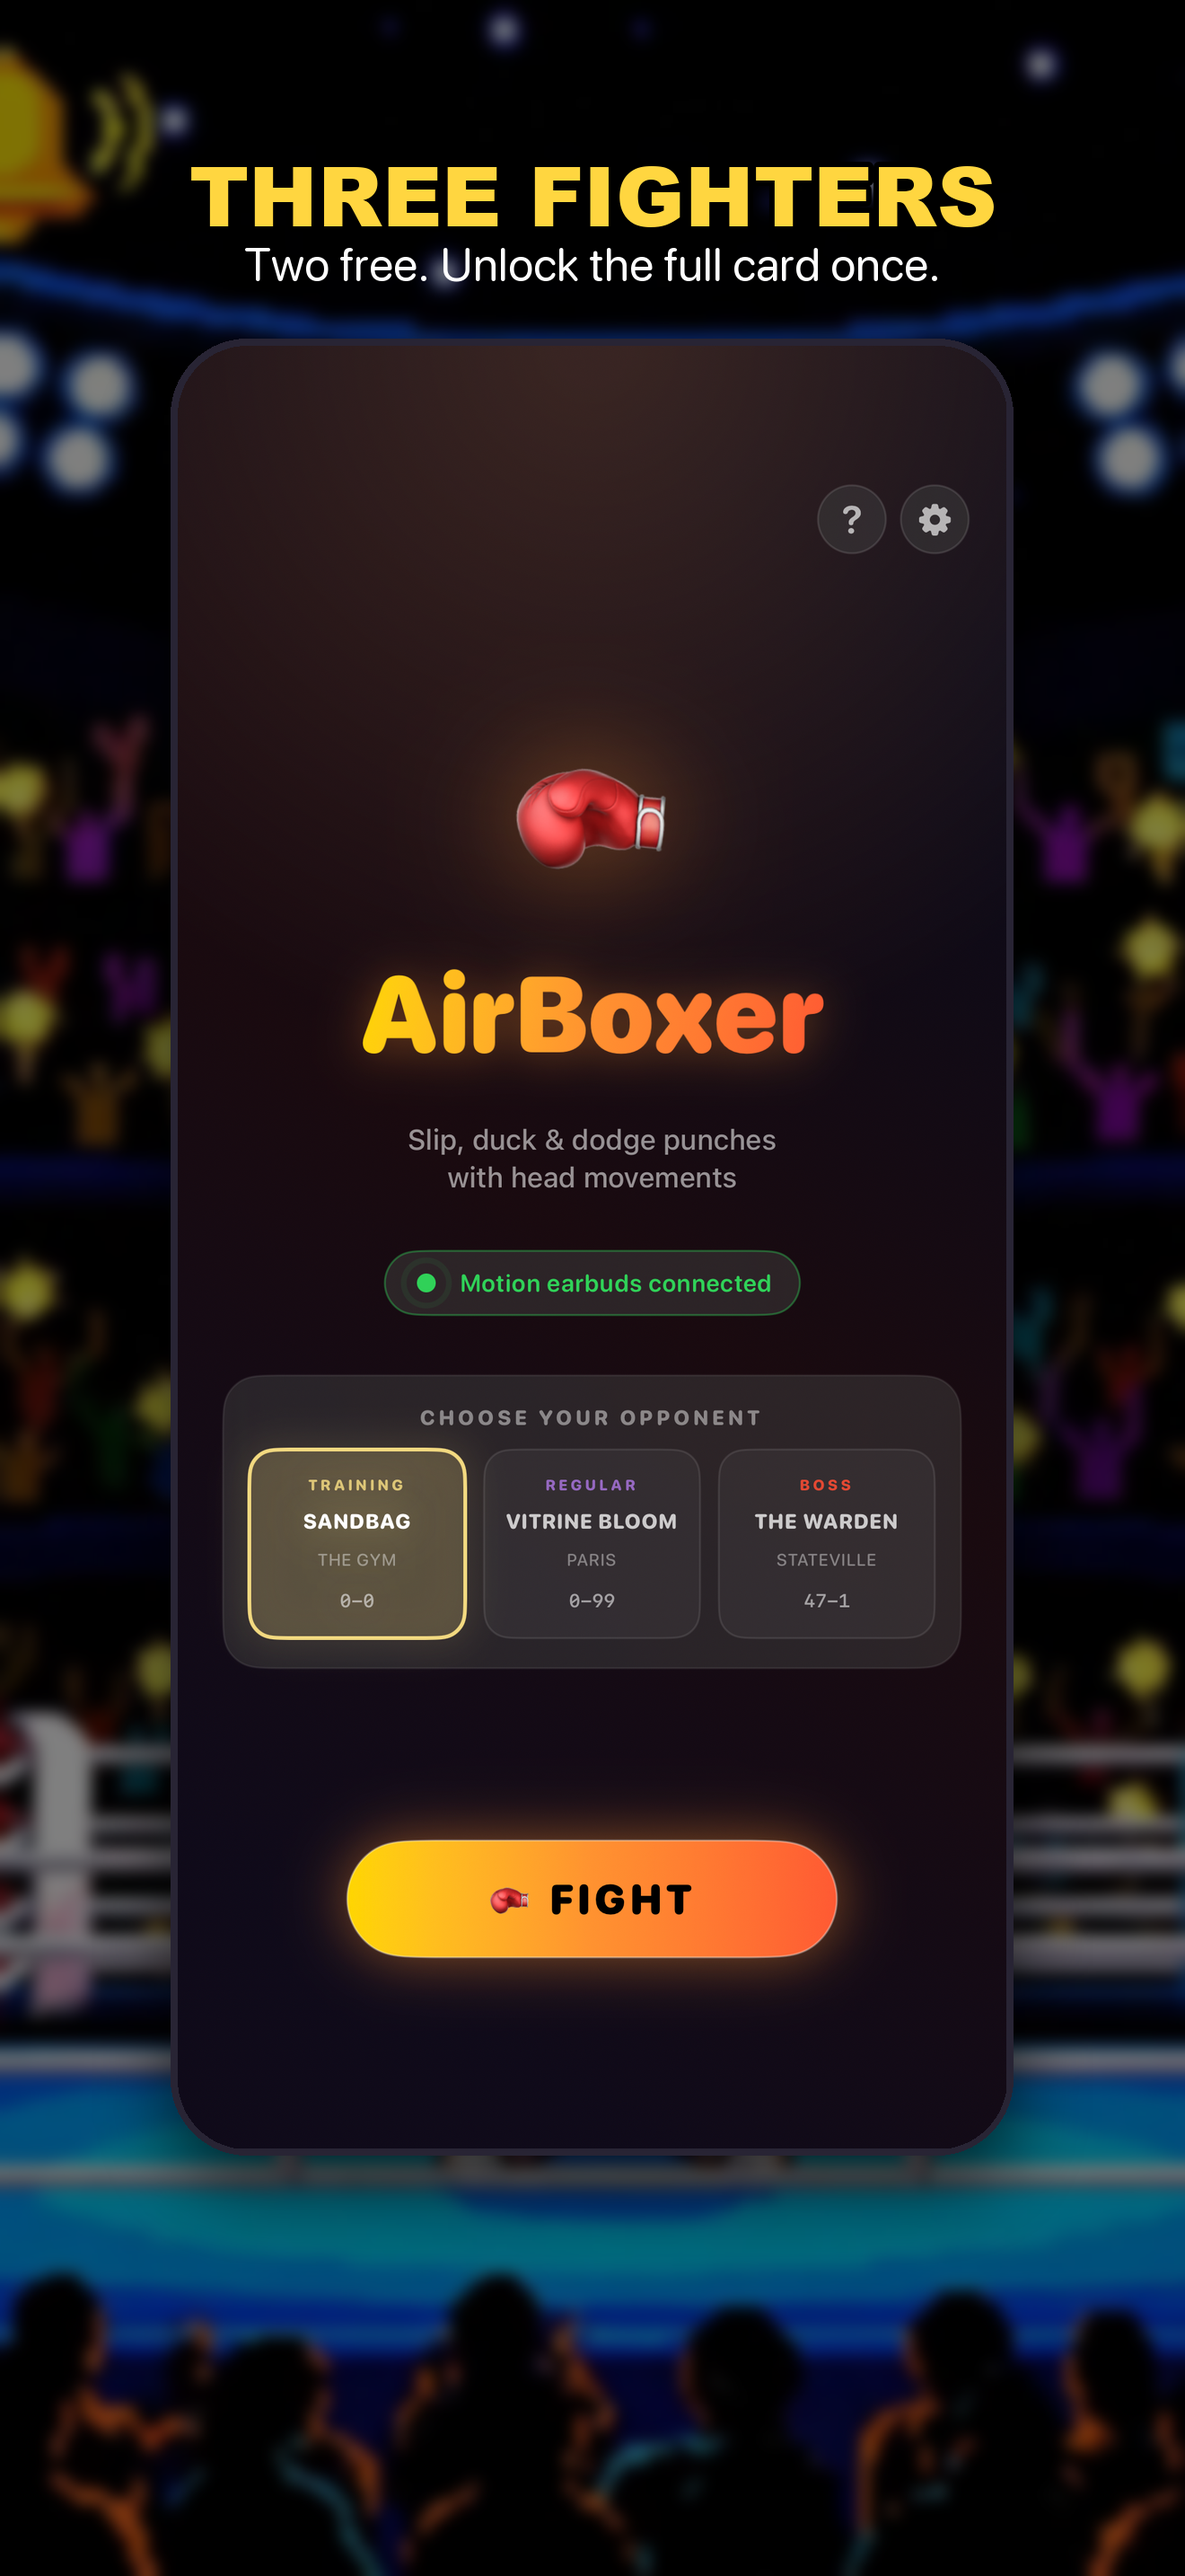
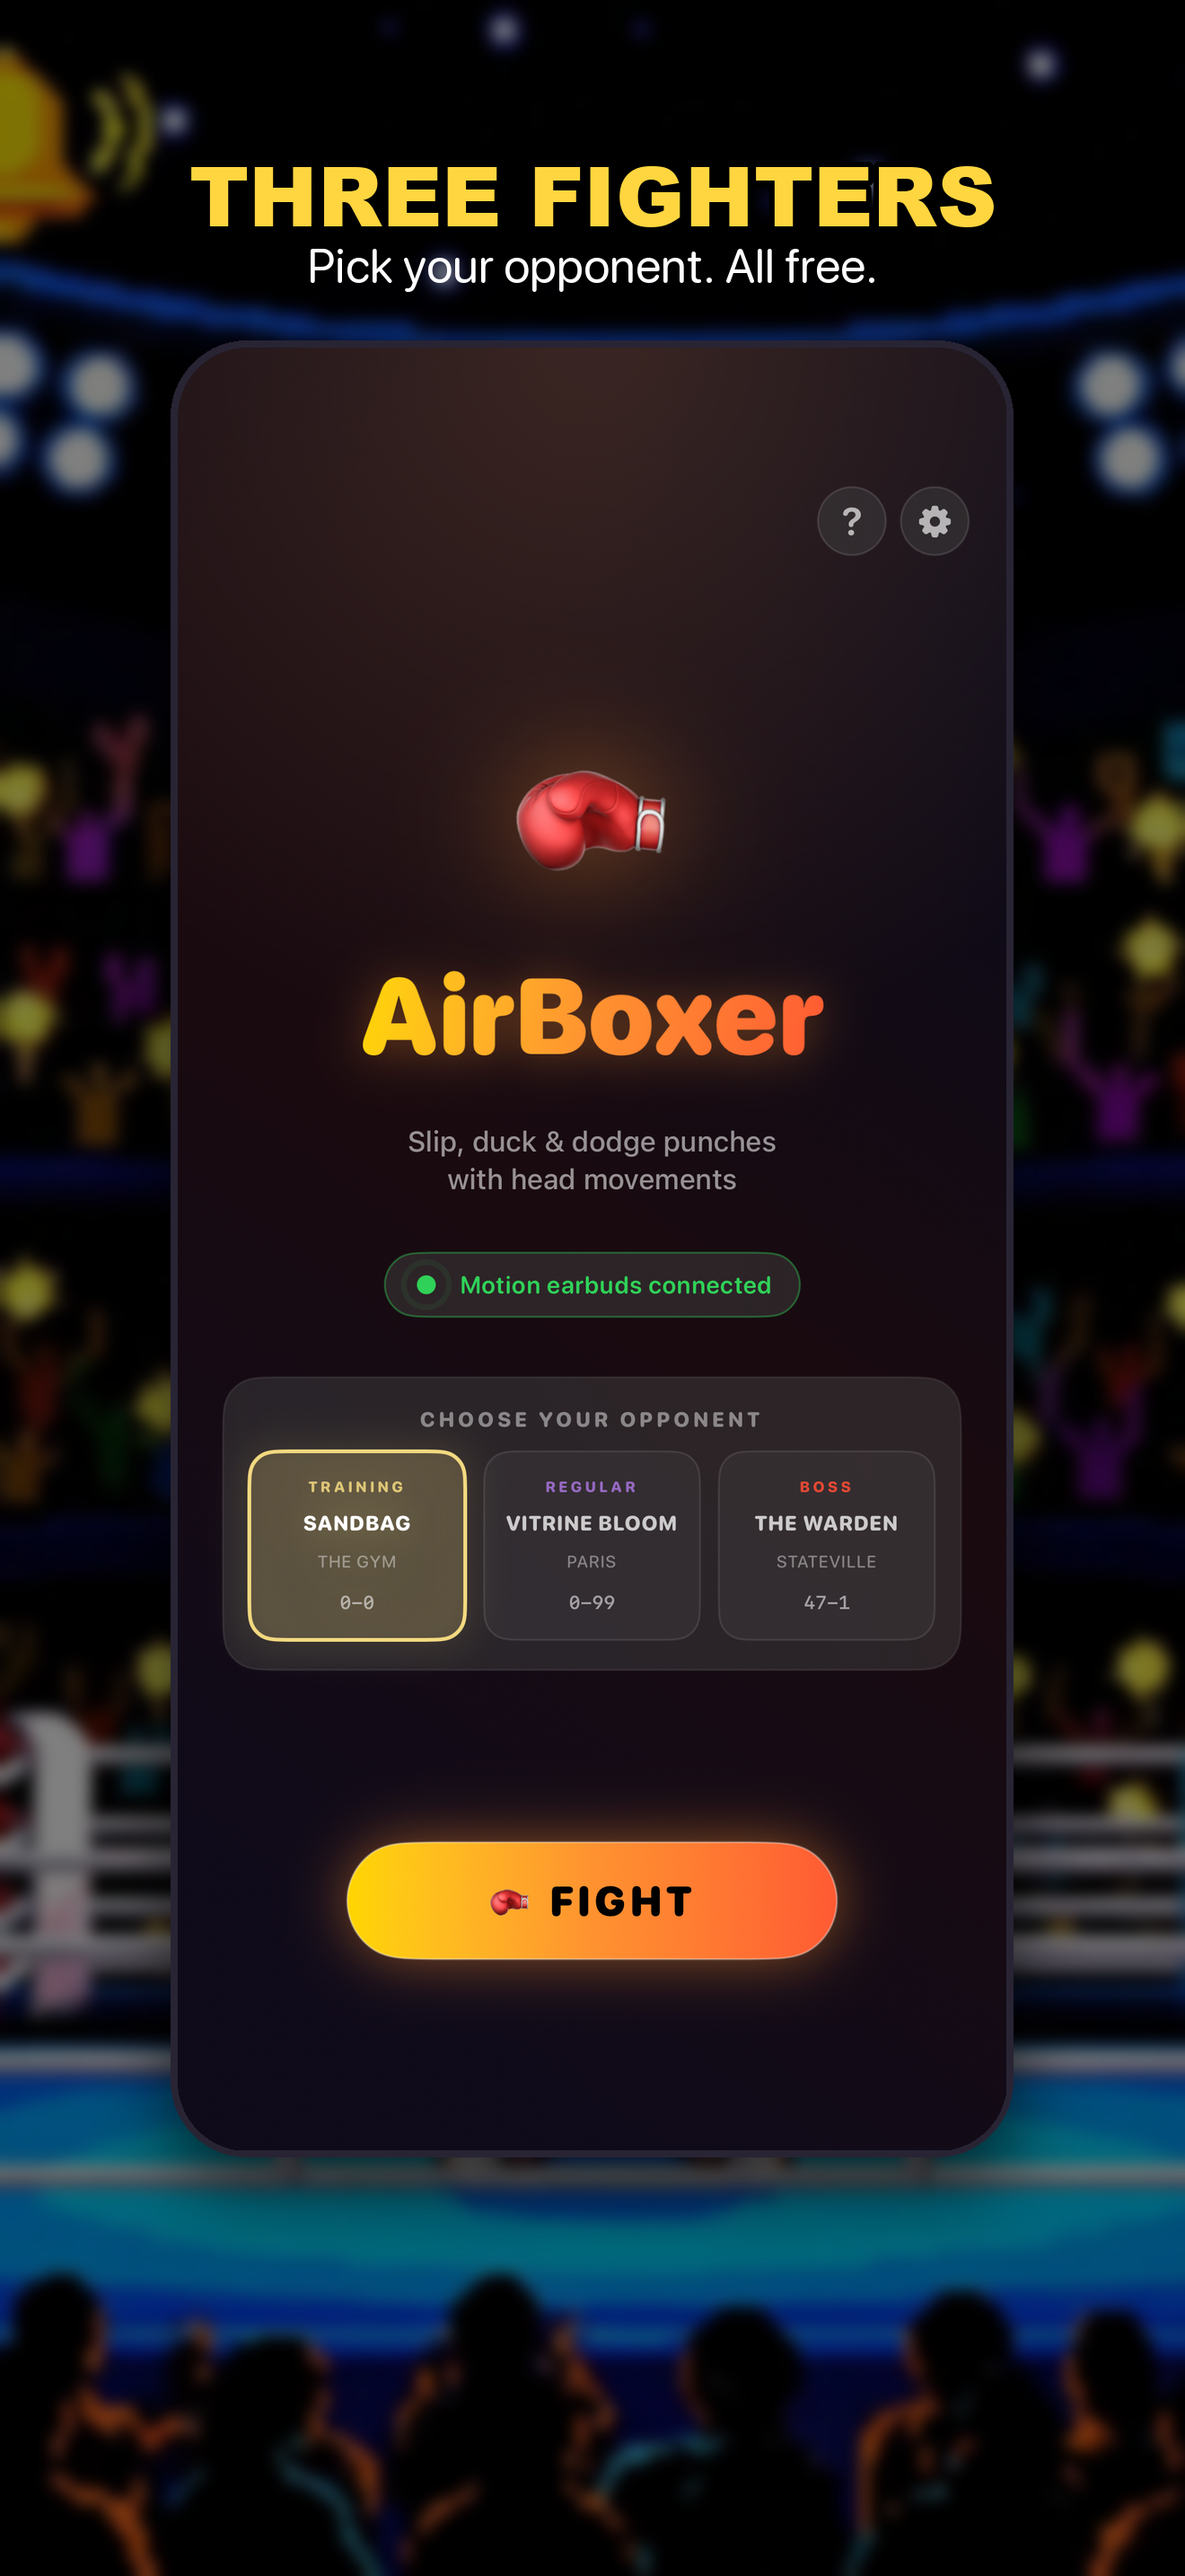
1.0 (7): everything free for now — paywall behind UnlockStore.isPaywallEnabled

diff --git a/AirpodsGame/Game/UnlockStore.swift b/AirpodsGame/Game/UnlockStore.swift
@@ -9,6 +9,10 @@ import StoreKit
 final class UnlockStore {
     static let shared = UnlockStore()
 
+    /// Off for now: every opponent is free. Flip to bring the Full Fight
+    /// Card paywall back (the IAP exists in App Store Connect).
+    static let isPaywallEnabled = false
+
     static let productID = "com.airdodge.AirpodsGame.fullcard"
     static let termsURL = URL(string: "https://www.apple.com/legal/internet-services/itunes/dev/stdeula/")!
     static let privacyURL = URL(string: "https://dautovri.com/airboxer-privacy")!
@@ -40,7 +44,7 @@ final class UnlockStore {
     }
 
     func isLocked(_ opponent: OpponentDefinition) -> Bool {
-        opponent.requiresUnlock && !isUnlocked
+        Self.isPaywallEnabled && opponent.requiresUnlock && !isUnlocked
     }
 
     func load() async {

diff --git a/AirpodsGame/Game/Settings.swift b/AirpodsGame/Game/Settings.swift
@@ -103,12 +103,14 @@ struct SettingsView: View {
                     Text("Feedback")
                 }
 
-                Section {
-                    Button("Restore Purchases") {
-                        Task { await UnlockStore.shared.restore() }
+                if UnlockStore.isPaywallEnabled {
+                    Section {
+                        Button("Restore Purchases") {
+                            Task { await UnlockStore.shared.restore() }
+                        }
+                    } header: {
+                        Text("Full Fight Card")
                     }
-                } header: {
-                    Text("Full Fight Card")
                 }
 
                 Section {

diff --git a/marketing/compose.py b/marketing/compose.py
@@ -32,7 +32,7 @@ SH=[
  ("03","crowd","perfect",[("SLIP. COMBO. REPEAT.",84,Y,F),("Tilt left or right to slip hooks",54,WH,R)],False),
  ("04","warden","intro",[("FACE THE WARDEN",88,OR,F),("A 47-1 boss with lightning tells",54,WH,R)],False),
  ("05","win","youwin",[("COUNTER TO THE K.O.",84,Y,F),("Every slip lands a punch back",54,WH,R)],False),
- ("06","arena","menu",[("THREE FIGHTERS",92,Y,F),("Two free. Unlock the full card once.",52,WH,R)],False),
+ ("06","arena","menu",[("THREE FIGHTERS",92,Y,F),("Pick your opponent. All free.",54,WH,R)],False),
  ("07","airpods","howto",[("LEARN IN SECONDS",88,Y,F),("Built-in How to Play video",54,WH,R)],True),
  ("08","crowd","results",[("CHASE THE RECORD",88,Y,F),("Game Center leaderboards",54,WH,R)],False),
 ]
